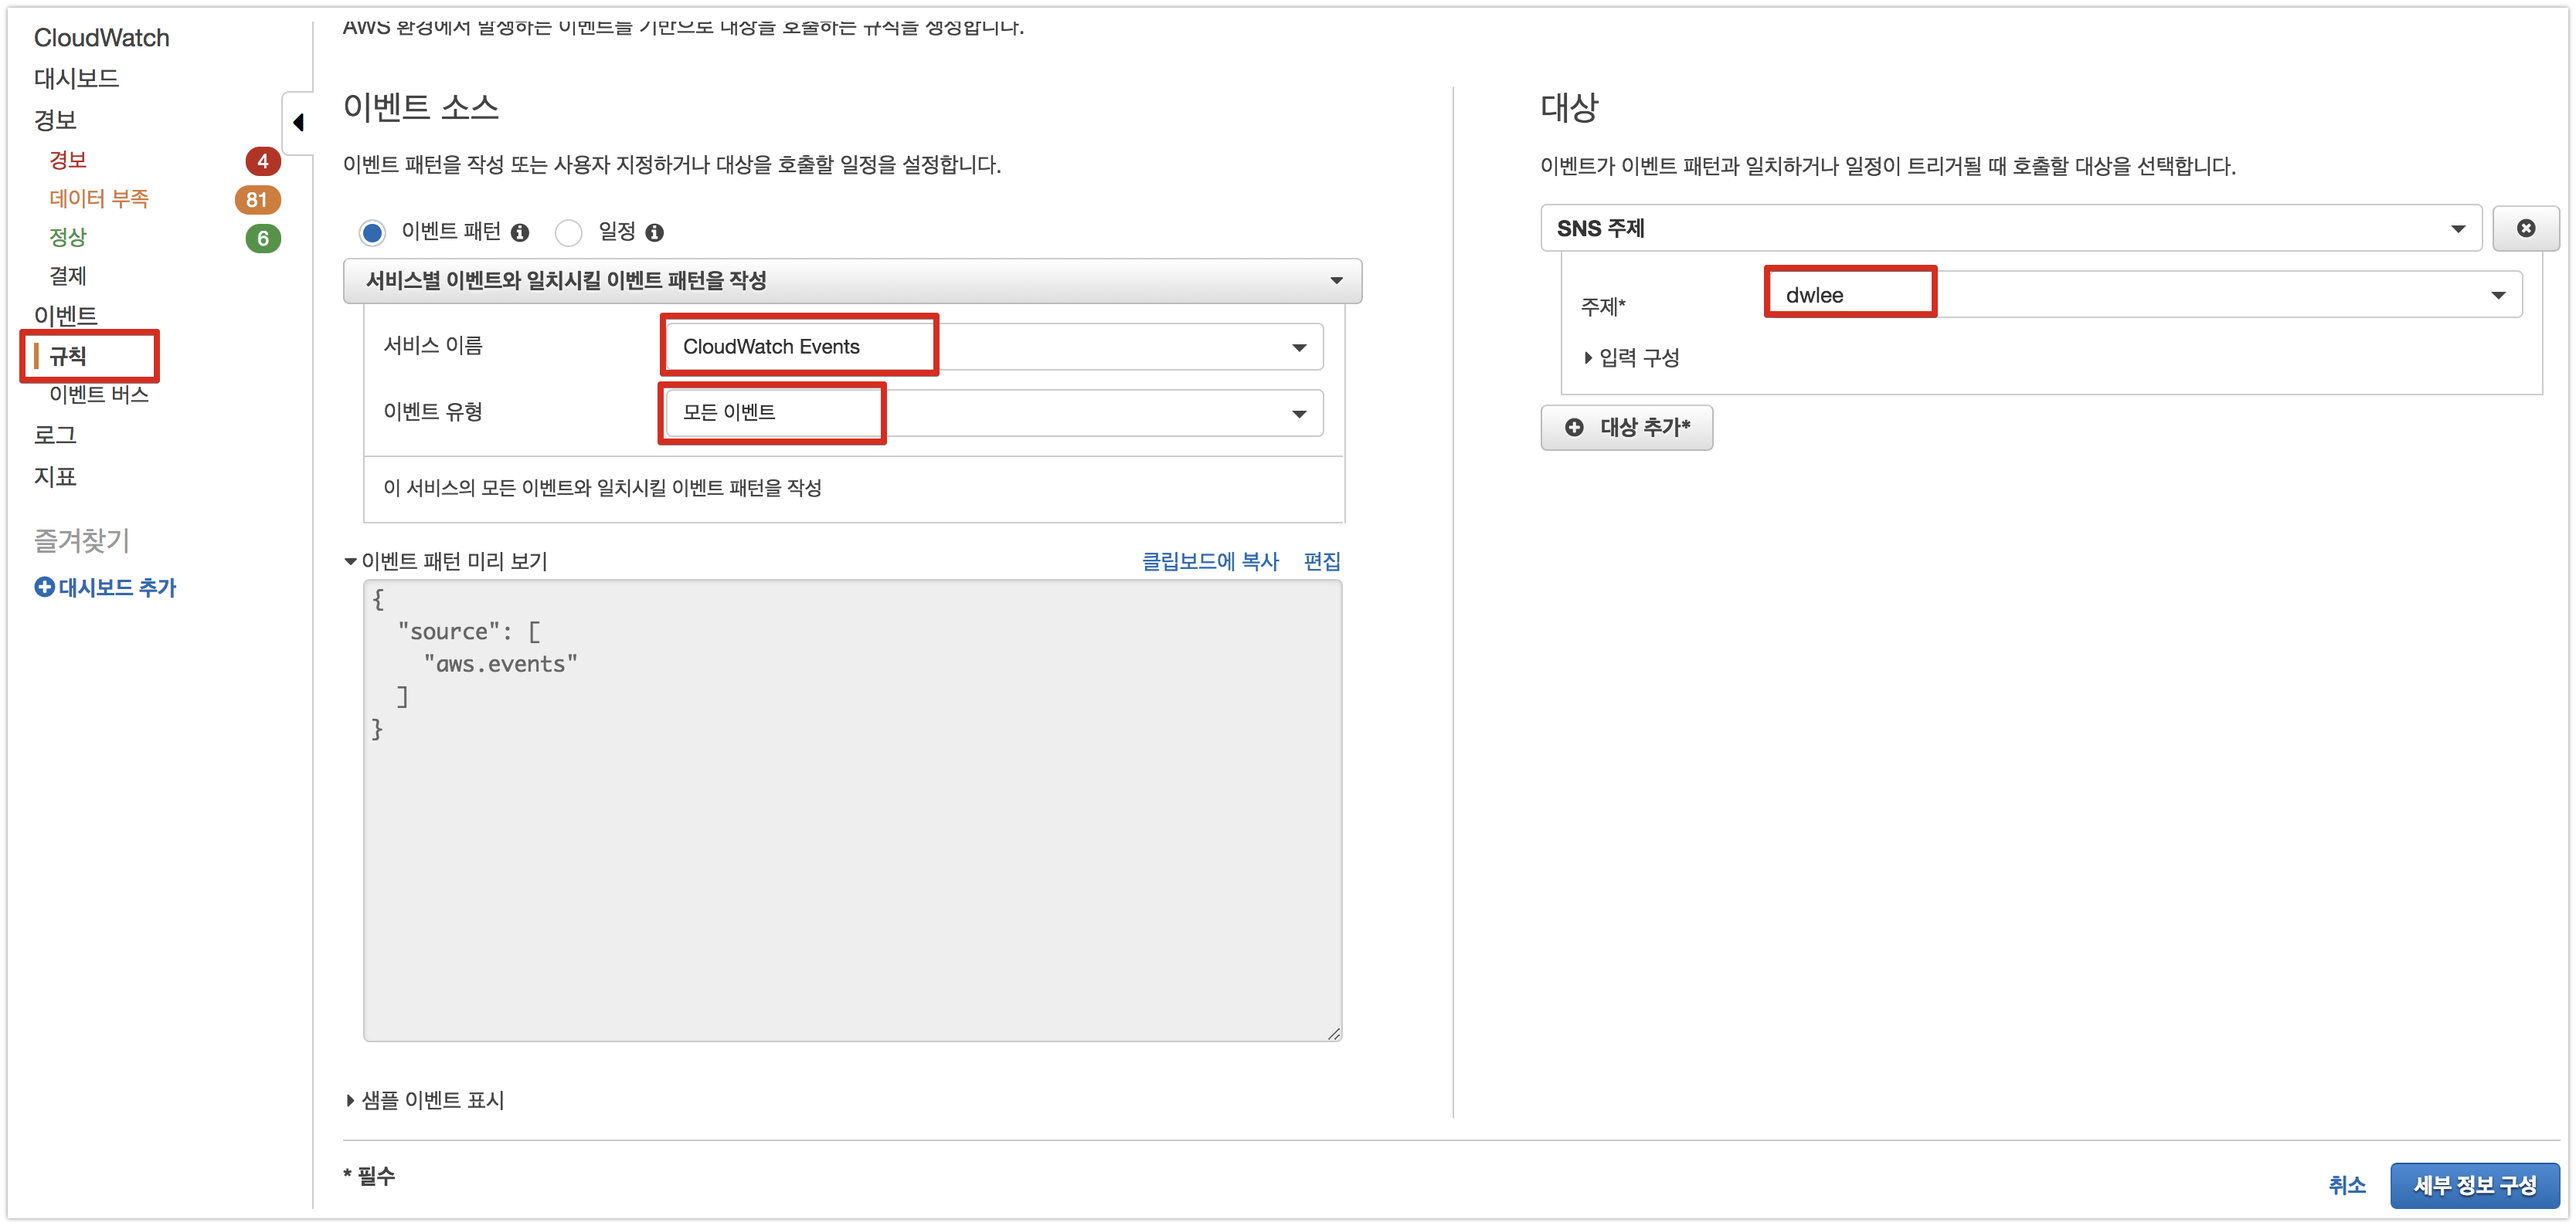
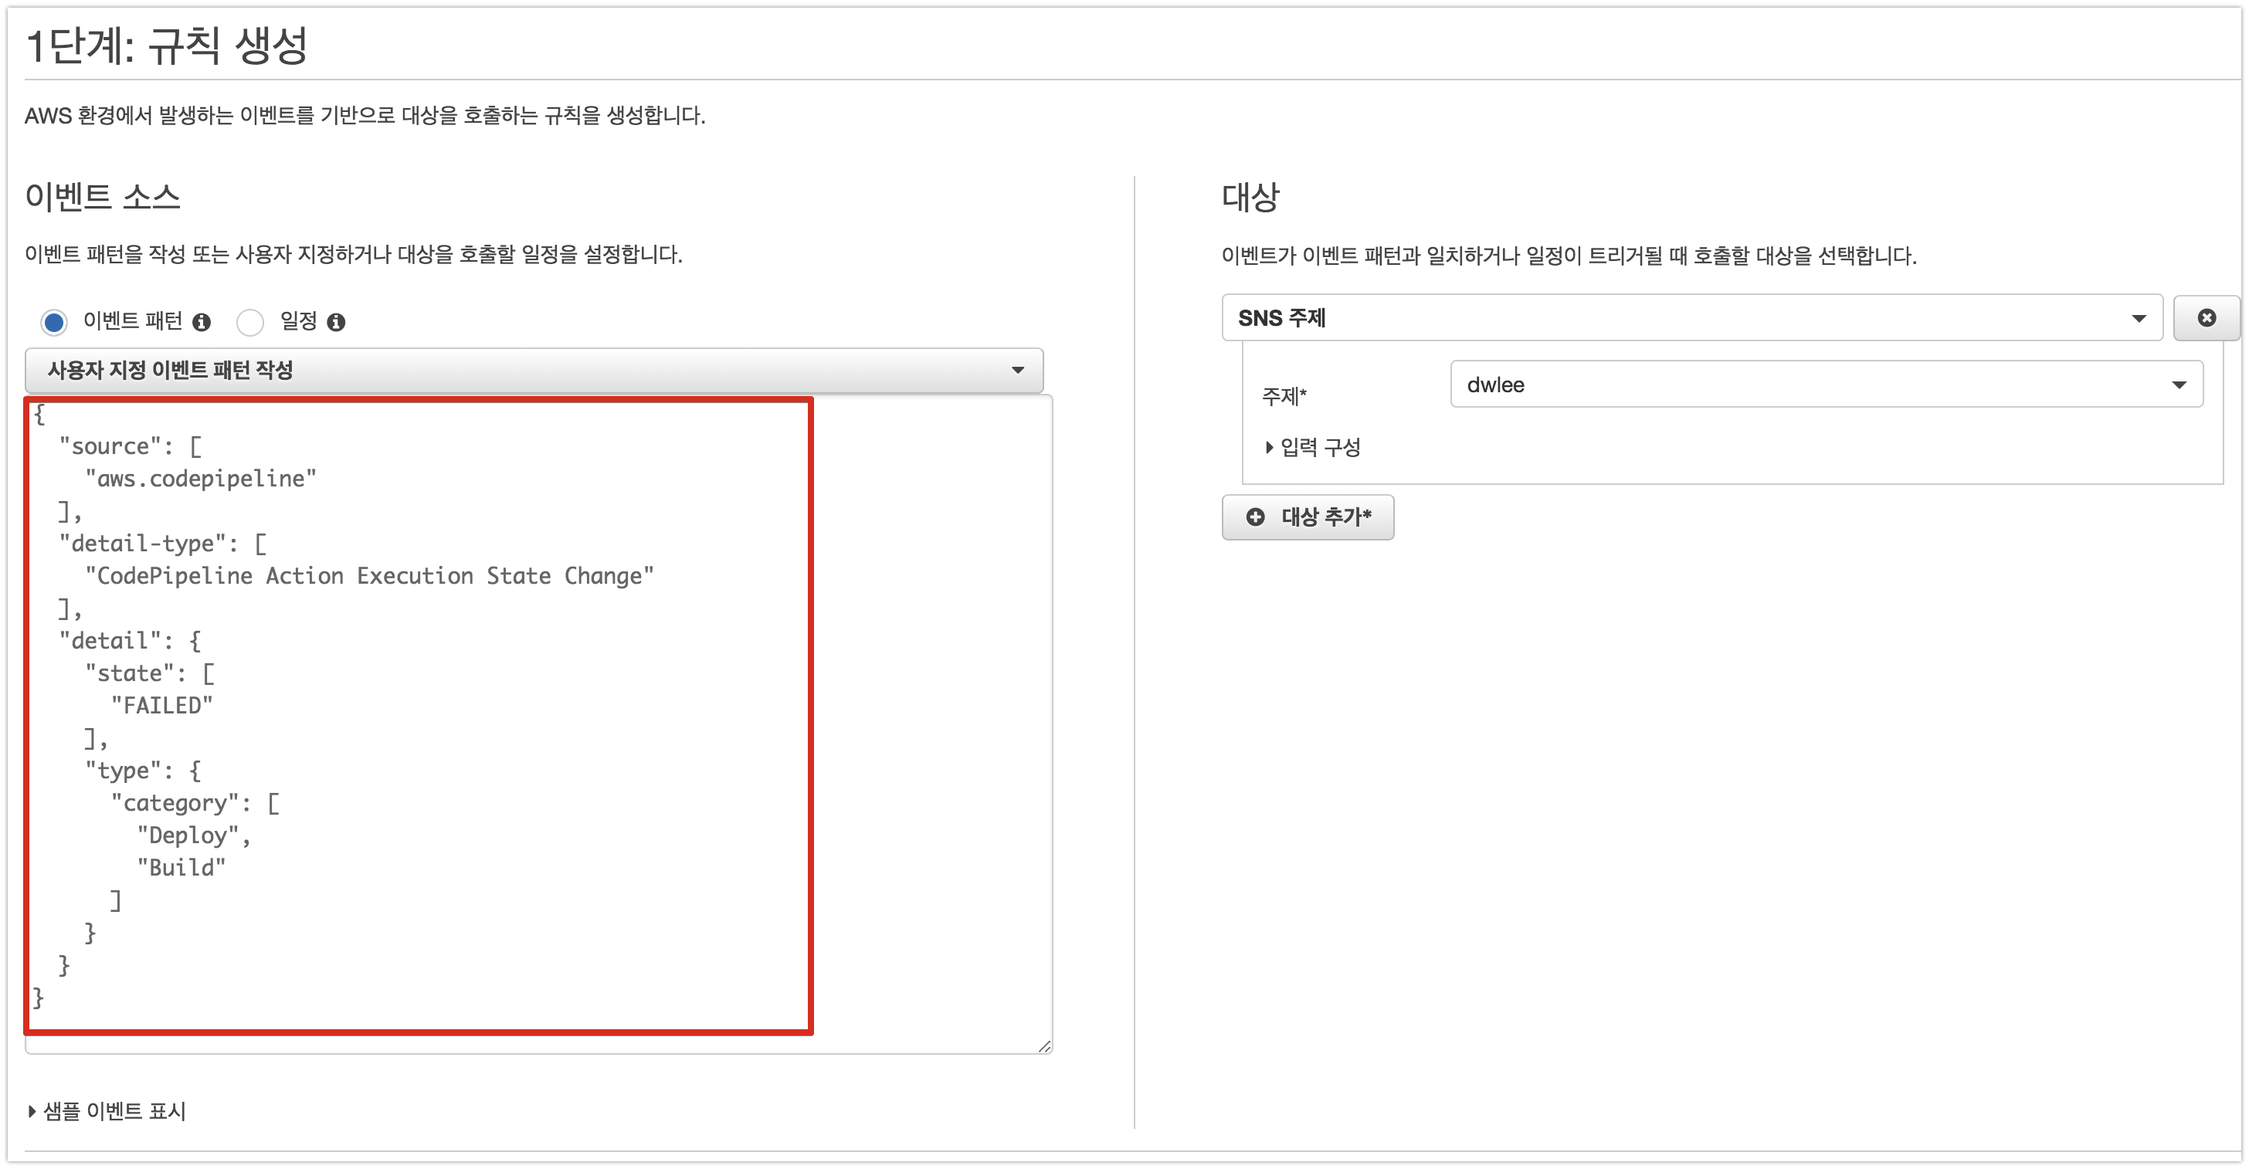
[AutoScaling] 스크립트 역할 분리

diff --git a/1_AUTO_SCALING.md b/1_AUTO_SCALING.md
@@ -124,3 +124,29 @@ sudo service codedeploy-agent start
 pending이 avaliable로 변경되면 이미지 생성이 완료된 것입니다.
 
 ## 3. Auto Scaling Group에서 Launch Configuration 생성
+
+## CodePipeline CloudWatch Alarm
+
+```json
+{
+  "source": [
+    "aws.codepipeline"
+  ],
+  "detail-type": [
+    "CodePipeline Action Execution State Change"
+  ],
+  "detail": {
+    "state": [
+      "FAILED"
+    ],
+    "type": {
+      "category": [
+        "Deploy",
+        "Build"
+      ]
+    }
+  }
+}
+```
+
+
